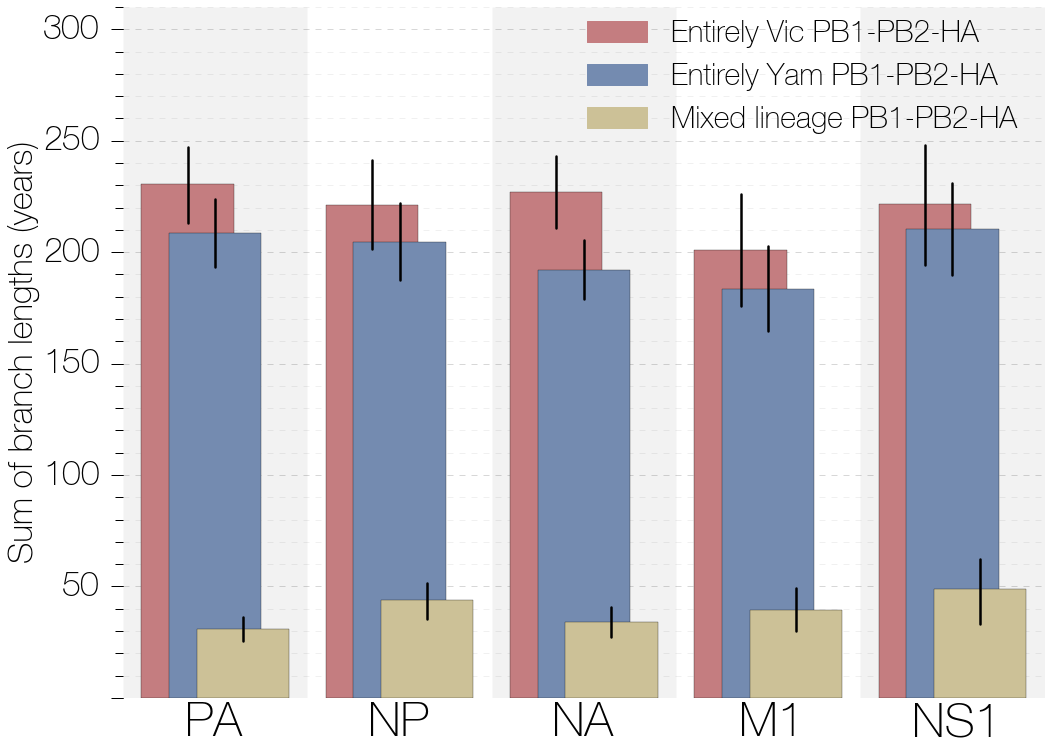
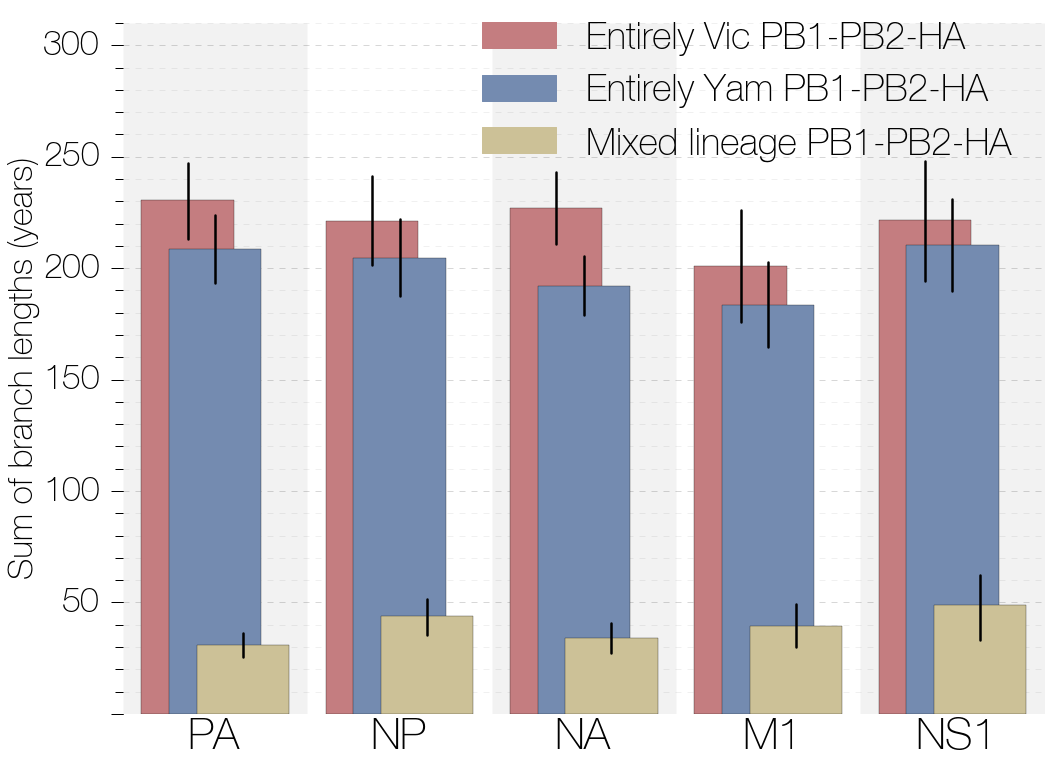
Hopefully final draft for MBE submission.
Some minor text changes, correcting font sizes in one of the figures.

diff --git a/fluB.tex b/fluB.tex
@@ -38,10 +38,10 @@
 \usepackage{amsmath}
 
 % Remove brackets from numbering in list of References
-\renewcommand\refname{\large References}
-\makeatletter
-\renewcommand{\@biblabel}[1]{\quad#1.}
-\makeatother
+%\renewcommand\refname{\large References}
+%\makeatletter
+%\renewcommand{\@biblabel}[1]{\quad#1.}
+%\makeatother
 
 \usepackage{authblk}
 \renewcommand\Authands{ \& }
@@ -97,12 +97,12 @@ Given sufficient time and continued recruitment to the reassortment-isolated PB1
 
 \section*{Introduction}
 Seasonal influenza causes between 250,000 and 500,000 deaths annually and comprises lineages from three virus types (A, B and C) co-circulating in humans, of which influenza A is considered to cause the majority of seasonal morbidity and mortality \citep{flufactsheet}.
-However, influenza B viruses are increasingly being recognized as important human pathogens \citep{paul-glezen2013}.
-Following the 2009 A/H1N1 pandemic, influenza B has increased in prevalence and in the 2012/2013 European season as many as 53\% of influenza sentinel surveillance samples tested positive for influenza B \citep{ECDC1213}. 
+However, influenza B viruses are increasingly being recognized as important human pathogens \citep{paul-glezen2013} and occasionally come to predominate an influenza season.
+For example in the 2012/2013 European season as many as 53\% of influenza sentinel surveillance samples tested positive for influenza B \citep{ECDC1213}. 
 
 Like other members of \textit{Orthomyxoviridae}, influenza B viruses have segmented genomes, which allow viruses co-infecting the same cell to exchange segments, a process known as reassortment. 
 Influenza A viruses are widely considered to be a major threat to human health worldwide due to their ability to cause pandemics in humans via reassortment of circulating human strains with non-human influenza A strains. 
-Although influenza B viruses have been observed to infect seals \citep{osterhaus2000,bodewes2013} through a reverse zoonosis, they are thought to primarily infect humans and are thus are unlikely to exhibit pandemics due to the absence of an animal reservoir from which to acquire antigenic novelty. 
+Although influenza B viruses have been observed to infect seals \citep{osterhaus2000,bodewes2013} through a reverse zoonosis, they are thought to primarily infect humans and are thus unlikely to exhibit pandemics due to the absence of an animal reservoir from which to acquire antigenic novelty. 
 Both influenza A and B evolve antigenically through time in a process known as antigenic drift, in which mutations to the haemagglutinin (HA) protein allow viruses to escape existing human immunity and persist in the human population, leading to recurrent seasonal epidemics \citep{burnet1955,hay2001,bedford2014}.
 
 Currently circulating influenza B viruses comprise two distinct lineages -- Victoria and Yamagata (referred to as Vic and Yam, respectively) -- named after strains B/Victoria/2/87 and B/Yamagata/16/88, that are thought to have genetically diverged in HA around 1983 \citep{rota1990}. 
@@ -110,7 +110,7 @@ These two lineages now possess antigenically distinct HA surface glycoproteins \
 Phylogenetic analysis of evolutionary rate, selective pressures and reassortment history of influenza B has shown extensive and often complicated patterns of reassortment between all segments of influenza B viruses both between and within the Vic and Yam lineages \citep{chen2008}.
 
 Here, we extend previous methods to reveal an evolutionarily intriguing pattern of reassortment in influenza B.
-In our approach, membership to either the Victoria or Yamagata lineage in the tree of one segment is used to label the individual viruses in the tree of the other segments.
+In our approach, membership to either the Victoria or Yamagata lineage in the tree of one segment is used to label the individual isolates in the tree of the other segments.
 By modelling the transition between labels on a phylogenetic tree, reassortment events which result in the replacement of one segment's lineage by another show up as label changes along a branch (Figure \ref{methodFig}).
 We use this method to reconstruct major reassortment events and quantify reassortment dynamics over time in influenza B viruses.
 
@@ -163,15 +163,15 @@ Each point is the mean time of most recent common ancestor (TMRCA) of all surviv
 \end{figure}
 
 By measuring mean pairwise diversity between branches in each tree that were assigned either a Vic or Yam label in other segments, we look for reductions in between-lineage diversity, which indicate that an inter-lineage reassortment event has taken place (Figure \ref{betweenDiversity}).
-Because we are taking the mean of pairwise comparisons, this method gives a quantitative measure of reassortment-induced loss of diversity between Victoria and Yamagata lineages in two trees, although care should be taken when interpreting the statistic, as it does not correspond to any real TMRCAs in the tree, but can be interpreted as mean coalescence date between Vic and Yam lineages of PB1, PB2 and HA segments in all other trees.
+This method gives a quantitative measure of reassortment-induced loss of diversity between Victoria and Yamagata lineages in two trees, although care should be taken when interpreting the statistic, as it does not correspond to any real TMRCAs in the tree, but can be interpreted as mean coalescence date between Vic and Yam lineages of PB1, PB2 and HA segments in all other trees.
 We focus only on PB1, PB2 and HA lineage labels, since all other segments have fixed either the Vic or the Yam lineage.
 Losses of diversity (represented by more recent mean pairwise TMRCAs between Vic and Yam labels) in Figure \ref{betweenDiversity} indicate that every segment has reassorted with respect to the Victoria and Yamagata lineages of PB1, PB2 and HA segments.
-However, we also see that PB1, PB2 and HA labels show reciprocal preservation of diversity after 1997.
+However, we also see that the labels for these 3 segments show reciprocal preservation of diversity after 1997.
 This suggests that after 1997 no reassortment events have taken place between Victoria and Yamagata lineages of PB1, PB2 and HA segments and their lineage labels only `meet' at the root.
 We do see reduced diversity between Vic and Yam labels of PB1, PB2 and HA segments in a time period close to the initial split of Vic and Yam lineages (1986--1996).
 These reductions in diversity represent small clades with reassortant PB1-PB2-HA constellations, which go extinct by 1997.
-We also observe that the assignment of Vic or Yam lineages of PB1, PB2 and HA segments to branches of other segment trees is very similar and often identical after 1997.
-This suggests that PB1, PB2 and HA lineage labels are switching between Vic and Yam simultaneously in all trees after 1997.
+We also observe that the assignment of these 3 segment labels to branches of other segment trees is very similar and often identical after 1997.
+This suggests that PB1, PB2 and HA lineage labels switch simultaneously in all trees after 1997.
 
 \begin{figure}[h]
 	\centering		
@@ -183,7 +183,7 @@ All vertical lines indicating uncertainty are 95\% highest posterior densities (
 	\label{betweenDiversity}
 \end{figure}
 
-We show the ratio of Vic and Yam lineages in our sequence data in different influenza seasons in Figure \ref{lineageRatiosOverTime}, which is based on lineage assignment performed earlier.
+We show the ratio of Vic and Yam lineages in our sequence data in different influenza seasons in Figure \ref{lineageRatiosOverTime}, which is based on lineage assignment performed earlier (see Methods).
 It is evident that losses of diversity in the PA, NP, NA, MP and NS segments are related to the repeated fixation of either the Vic or the Yam lineage.
 These losses of diversity correspond to fixation of the Vic lineage in NS and fixation of the Yam lineage in PA, NP, NA and MP.
 Similarly, the lack of reassortment between Vic and Yam lineages and maintenance of diversity of PB1, PB2 and HA can be seen, where the two lineages have been isolated at a ratio close to 50\% over long periods of time (Figure \ref{lineageRatiosOverTime}).
@@ -195,7 +195,7 @@ On a year-to-year basis, however, the ratios for Vic and Yam lineage PB1, PB2 an
 	\caption{\textbf{Ratio of lineages in the dataset.}
 The ratio of sequences that derive from the original Victoria clade (yellow) to sequences that derive from the Yamagata clade (purple) in each segment over time.
 Black lines indicate where this ratio lies in the larger 1600 genomes dataset.
-Numbers at the top of the figure show the total number of genomes analyzed within each influenza season in the main dataset comprised of 452 genomes, while the numbers in brackets correspond to numbers of sequences in the larger 1600 genomes dataset.
+Numbers at the top of the figure show the total number of genomes analyzed within each influenza season in the main dataset comprised of 452 genomes from which the ratio was calculated, while the numbers in brackets correspond to numbers of sequences in the larger 1600 genomes dataset.
 Numbers at the bottom are influenza seasons from the 1987/1988 (87/88) season to the 2011/2012 season.
 Yamagata lineage PA, NP, NA and MP segments and Victoria lineage NS segment eventually become fixed in the influenza B population.
 PB1, PB2 and HA segments maintain separate Victoria and Yamagata lineages.}
@@ -214,11 +214,12 @@ We identify 5 major (in terms of persistence) reassortant genome constellations 
 \end{itemize}
 B/Alaska/12/1996-like, B/Nanchang/2/1997-like and B/Iowa/03/2002-like constellations were observed by \citet{chen2008}, but sequences from \\B/California/NHRC0001/2006-like and B/Brisbane/33/2008-like constellations were not available at the time.
 In their study \citet{chen2008} also recovered the co-assortment pattern of PB1, PB2 and HA lineages, but did not remark upon it.
-Of these 5 constellations 4 (B/Nanchang/2/1997-like, B/Iowa/03/2002-like, B/California/NHRC0001/2006-like and B/Brisbane/33/2008-like) are derived from introgression of Yamagata lineage segments into Victoria lineage PB1-PB2-HA background, with only 1 (B/Alaska/12/1996-like) resulting from introgression of Victoria lineage NS segment into an entirely Yamagata derived background.
+Of these 5 constellations 4 (B/Nanchang/2/1997-like, B/Iowa/03/2002-like,\\ B/California/NHRC0001/2006-like and B/Brisbane/33/2008-like) are derived from introgression of Yamagata lineage segments into Victoria lineage PB1-PB2-HA background, with only 1 (B/Alaska/12/1996-like) resulting from introgression of Victoria lineage NS segment into an entirely Yamagata derived background.
 All 5 inter-lineage reassortment events described here are marked by the preservation of either entirely Victoria or Yamagata derived PB1-PB2-HA segments.
 Figure \ref{railroadPlot} also shows that reassorting segments appear to evolve with a considerable degree of autonomy.
 For example, the NP lineage that entered a largely Victoria lineage derived genome and gave rise to the B/Nanchang/2/1997-like isolates continued circulating until 2010, even though other segments it reassorted with in 1995 -- 1996 (PA and MP) went extinct following the reassortments that led to the rise of viruses with B/Iowa/03/2002-like genome constellations.
 A more extreme example is the NS segment, which in B/Iowa/03/2002-like isolates (and all subsequent Vic PB1-PB2-HA isolates) has originally been derived from the Victoria lineage that had been associated with mostly Yam lineage derived B/Alaska/12/1996-like genomes for a number of years.
+
 We observe that in 5 successful inter-lineage reassortment events, none break up the PB1-PB2-HA complex.
 This is an unlikely outcome -- the probability of not breaking up PB1-PB2-HA across 5 reassortment events is $p = (\frac{2^{5} \times 2 - 2}{2^{8} - 2})^{5} = 0.0009$, where reassortment events are considered to sample from the Vic and Yam lineages at random for each of the 8 segments.
 If we correct for multiple testing with the assumption that co-assortment of any 3 segments is of interest we find that the probability of not breaking up an arbitrary 3 segments across 5 reassortment events is $p = \binom{8}{3} \times (\frac{2^{5} \times 2 - 2}{2^{8} - 2})^{5} = 0.0485$.
@@ -234,7 +235,7 @@ Lineage extinction dates are not shown accurately.}
 	\label{railroadPlot}
 \end{figure}
 
-The vast majority of influenza B isolates possess either Vic or Yam lineage derived PB1-PB2-HA complexes, although on rare occasions mixed-lineage PB1-PB2-HA constellations emerge.
+Although the vast majority of influenza B isolates possess either Vic or Yam lineage derived PB1-PB2-HA complexes, on rare occasions mixed-lineage PB1-PB2-HA constellations emerge.
 Figure \ref{stateTime} shows the sum of branch lengths which were labelled as having entirely Vic, entirely Yam or mixed-lineage PB1, PB2 and HA segments.
 Due to lack of reassortment between Vic and Yam lineages of PB1, PB2 and HA (Figure \ref{betweenDiversity}) since 1997 all segments have spent significantly longer periods of evolutionary time with either entirely Vic-derived or entirely Yam-derived than with mixed-lineage PB1, PB2 and HA constellations (Figure \ref{stateTime}).
 We have identified 3 instances of mixed-lineage PB1-PB2-HA reassortants from the data with the following PB1-PB2-HA constellations: VVY (B/Bangkok/163/1990-like, 13 sequences isolated 1990 -- 5 Jan 1995), VYV (B/Nanchang/630/1994-like, 2 sequences isolated 1994 -- 1996) and VYY (B/New York/24/1993-like, 2 sequences isolated 8 Jan 1993 -- 1994).
@@ -245,7 +246,7 @@ We detected two new reassortant lineages when investigating the larger (1600 gen
 	\includegraphics[width=0.65\textwidth]{figures/InfB_stateTimeAlt.png}
 	\caption{\textbf{Amount of evolutionary time each segment has spent under different PB1-PB2-HA constellations.}
 All segments have spent significantly more of their history with entirely Vic or entirely Yam-derived PB1-PB2-HA complexes.
-All horizontal lines indicating uncertainty are 95\% highest posterior densities (HPDs).}
+All vertical lines indicating uncertainty are 95\% highest posterior densities (HPDs).}
 	\label{stateTime}
 \end{figure}
 
@@ -253,12 +254,12 @@ All horizontal lines indicating uncertainty are 95\% highest posterior densities
 We attempted to quantify the temporal discordance between lineages reassorting into new genomic constellations.
 If one were able to recover an influenza `species tree', including admixture/reassortment events, it would be possible to estimate the reassortment or recombination `distance', which is the time between a split in the species tree in the past and a reassortment event (see Figure \ref{speciesTree}).
 Although we do not find evidence of differences in numbers of overall reassortments between segments (see Supplementary information), we find support for a reassortment `distance' effect, in which a pair of tips on one segment has a different TMRCA from the same pair of tips on a different segment.
-$\dtmrca$ is most sensitive when only one of the two trees being compared loses diversity via reassortment and the other acts like a proxy for the `species tree'.
+This difference in TMRCAs, or $\dtmrca$, is most sensitive when only one of the two trees being compared loses diversity via reassortment and the other acts like a proxy for the `species tree'.
 We normalize our $\dtmrca$ comparisons to account for alignment length induced uncertainty in tree topology stability over the course of the MCMC chain (see Methods).
 Figure \ref{deltaTMRCA} shows normalized mean $\dtmrca$ values for all pairs of trees.
 Most segment pairs show very low values for this statistic with $\dtmrca\approx$0.1, indicating that $\dtmrca$ measurements between independent analyses of the same segment are up to 10 times smaller than $\dtmrca$ values between analyses of different segments.
 PB1, PB2 and HA trees, on the other hand, exhibit normalized $\dtmrca$ values that are much higher.
-This shows that TMRCA differences between trees of PB1, PB2 and HA segments which, though noisy, are occasionally very similar to uncertainty in tip-to-tip TMRCAs between replicate analyses of these segments.
+This shows that TMRCA differences between trees of PB1, PB2 and HA segments are, though noisy, occasionally very similar to uncertainty in tip-to-tip TMRCAs between replicate analyses of these segments.
 For example, the distribution of comparison between PB1 and PB2 trees has a mean $\dtmrca$$\approx0.4$, indicating that the sum of $\dtmrca$ values from PB1-PB1' and PB2-PB2' comparisons (prime (') indicates an independent MCMC chain) are 40\% of twice the $\dtmrca$ value from the PB1-PB2 comparison, but this value can range anywhere between $\approx$0.15 and $\approx$0.75.
 
 \begin{figure}[h]
@@ -272,13 +273,12 @@ All vertical lines indicating uncertainty are 95\% highest posterior densities (
 
 Linkage disequilibrium (LD) is a measure of non-random association between pairs of alleles at different polymorphic loci within a population.
 To estimate LD no other information, except for haplotype and allele frequencies at polymorphic amino acid sites, is required.
-Although not an external validation of previous phylogenetic results, we observe significantly greater LD values between PB1, PB2 and HA than between other pairs of segments (Figure \ref{segmentLD}).
+Although not an external validation of previous phylogenetic results, we observe greater LD values between PB1, PB2 and HA than between other pairs of segments (Figure \ref{segmentLD}) in a large (approximately 1600 genomes) dataset.
 This suggests that PB1, PB2 and HA segments possess a considerable number of co-assorting alleles, which upon closer inspection are associated with either Vic or Yam lineage segments.
 We conclude that Victoria and Yamagata lineages of PB1, PB2 and HA have accumulated lineage-specific amino acid substitutions.
 Of the amino acid sites that exhibit high LD on PB1, PB2 and HA proteins, there are 4 sites on PB1, 4 on PB2 and 4 on HA proteins which form a network of sites exhibiting high LD (Figures \ref{ChiGenome} and \ref{ChiCore}).
-Figure \ref{ChiGenome} also shows that the number of variable amino acid sites in PB1 and PB2 proteins is comparable to most other proteins investigated (see Methods for cut-offs used to exclude sites from LD analysis).
 These sites define the split between Vic and Yam lineages within PB1, PB2 and HA segments.
-In addition, there are sites on PB1, PB2 and HA proteins which also show high, albeit smaller, LD which correspond to sites which have undergone amino acid replacements some time after the Vic/Yam split.
+In addition, there are sites on PB1, PB2, HA and NA proteins which also show high, albeit smaller, LD which correspond to sites which have undergone amino acid replacements some time after the Vic/Yam split.
 
 \begin{figure}[h]
 	\centering	
@@ -296,14 +296,14 @@ This is evidence of a considerable number of co-assorting alleles within these p
 In this paper we show that the PB1, PB2 and HA segments of influenza B viruses are the only ones that have continuously maintained separate Vic and Yam lineages, while other segments have fixed either Vic or Yam lineages (Figures \ref{genomeGrid}, \ref{lineageRatiosOverTime} and \ref{railroadPlot}).
 Evidence suggests that this is a result of prolonged lack of reassortment between Vic and Yam lineages in PB1, PB2 and HA (Figure \ref{betweenDiversity}) which possess co-assorting sequences detectable as high linkage disequilibrium (Figure \ref{segmentLD}).
 The vast majority of the sampled evolutionary history of each segment of influenza B viruses since the split of Vic and Yam lineages has been spent in association with either completely Victoria or completely Yamagata lineage derived PB1-PB2-HA complexes (Figure \ref{stateTime}), suggesting that having `pure' lineage PB1-PB2-HA complexes is important for whole-genome fitness.
-We propose that this pattern of coassortment is due to the action of selection and not simply biased reassortment.
+We propose that this pattern of coassortment is due to the action of selection and not simply biased or rare reassortment.
 
 When comparing the mean tip-tip TMRCA deviations we find evidence of isolation by temporal distance - when reassortments occur between PB1, PB2 and HA segments those events tend to involve branches that have similar TMRCAs.
 Other segment pairs, with the exception of MP-NA, seem to show little signal of this and are able to reassort with branches that have been evolving under temporally distant genomic backgrounds.
 In addition, most strains with mixed-lineage PB1-PB2-HA complexes occurred in the early years of the Vic--Yam split, when the two lineages were presumably much more similar at the nucleotide and amino acid levels.
 The most recent influenza B viruses with mixed-lineage PB1-PB2-HA complexes are B/Waikato/6/2005-like and B/Malaysia/1829782/2007-like viruses which circulated for only 5 months or are known from a single isolate, respectively.
 
-We should clarify that when we say that Vic and Yam PB1-PB2-HA complexes of the influenza B virus are co-adapted and have co-evolved we mean that these 3 segments do not appear to function well when derived from both lineages and that the evolution to this state has been intimate, in the sense that the two lineages have not reassorted across great temporal distances, unlike the rest of the genome.
+We should clarify that when we say that Vic and Yam PB1-PB2-HA complexes of the influenza B virus are co-adapted and have co-evolved we mean that these 3 segments do not appear to function well when derived from both lineages and that the evolution to this state has been intimate, in the sense that there has not been a successful reassortant combining these two lineages across great temporal distances, unlike the rest of the genome.
 
 
 \subsection*{Causes of co-dependence between PB1-PB2-HA}
@@ -312,26 +312,26 @@ Though it would be easy to explain co-adaptation between these segments by refer
 
 It is perhaps easiest to explain co-dependence between PB1 and PB2 segments based on their functions as part of the influenza RNA-dependent RNA polymerase (RdRp) heterotrimer.
 Indeed, trees of PB1 and PB2 segments exhibit high similarity in tip--tip TMRCAs (Figure \ref{deltaTMRCA}), suggesting highly similar TMRCAs.
-In addition, PB1--PB2 reassortants are the rarest and least persistent among mixed-lineage PB1-PB2-HA strains and have not been isolated since 1996.
+In addition, PB1--PB2 reassortants are the rarest and least persistent among mixed-lineage PB1-PB2-HA strains and have not been isolated in great numbers.
 
 Explaining the co-dependence of PB1+2 and HA segments is more difficult.
 Many studies have noted a possible link between the HA, NA and PB1 segments of influenza A viruses \citep{bergeron2010,fulvini2011}.
-A previously used technique for producing vaccine seed strains involved selecting for HA-NA reassortants, which often resulted in PB1-HA-NA reassortants, the second most frequent class of reassortants \citep{bergeron2010,fulvini2011}.
+A previously used technique for producing vaccine seed strains involved selecting for HA-NA reassortants, which often yielded PB1-HA-NA reassortants as a side-effect \citep{bergeron2010,fulvini2011}.
 Recent experiments have suggested that the presence or absence of a `foreign' PB1 segment can have dramatic effects on HA concentration on the surface of virions and total virion production \citep{cobbin2013}.
 Additional evidence for a relationship between PB1 and HA segments in influenza A viruses is given by previous influenza pandemics, which were caused by avian-human influenza A virus reassortants.
 It has been established that at least for the 1957 and the 1968 influenza pandemics, caused by A/H2N2 and A/H3N2 subtypes, respectively, the viruses responsible were reassortants possessing PB1 and HA segments derived from avian influenza A viruses \citep{kawaoka1989}.
 However, there have also been reassortant influenza A viruses circulating for prolonged periods of time in humans that did have disparate PB1 and HA segments, \textit{e.g.} H1N2 outbreaks in 2001 \citep{gregory2002} and H1N1/09 in 2009 \citep{smith2009}.
 
 Another possibility is the action of balancing selection in preserving the diversity in one segment, whilst the other segments hitchhike along.
-A good candidate for this would be HA, as it is now the sole bearer of substantial antigenic diversity within the influenza B population, as the Vic lineage NA segment went extinct in 2002 (Figures \ref{genomeGrid}, \ref{tmrcaOT}, \ref{lineageRatiosOverTime} and \ref{railroadPlot})).
-We find this scenario unlikely: if PB1+2 segments were hitchhiking with the HA segment stochastically we would expect to see more PB1+2 versus HA reassortants and fixation of Vic or Yam lineage PB1+2 segments in the influenza B population.
-Our main dataset comprising 452 complete influenza B virus genomes has one instance of these kinds of reassortants characterised by B/Bangkok/163/1990-like genome constellations.
-The larger dataset with 1600 complete genomes has two additional examples of this: isolates with B/Waikato/6/2005-like and B/Malaysia/1829782/2007-like PB1-PB2-HA constellations.
-We note that in all cases the genome constellations of these reassortants were not fixed in the influenza B population and the more recent B/Waikato/6/2005-like reassortants persisted for a much shorter period of time (5 months versus 4 years), suggestive of declining PB1+2/HA reassortant fitness over time.
-
+A good candidate for this would be HA, as it is now the sole bearer of substantial antigenic diversity within the influenza B population, as the Vic lineage NA segment went extinct in 2002 (Figures \ref{genomeGrid}, \ref{tmrcaOT}, \ref{lineageRatiosOverTime} and \ref{railroadPlot}).
 Previous research has found that avian influenza A virus HA and NA segments, which are the primary vehicles of antigenicity, exhibit vast diversity when compared to `internal segments' (including PB1 and PB2 segments), which show much more recent TMRCAs and less variability at the amino acid level \citep{chen2006,obenauer2006}.
 This is easiest to interpret as frequency-dependent balancing selection acting to preserve antigenic diversity \citep{worobey2014}.
 If this is the case in influenza B viruses, we expect balancing selection to act on HA and indirectly, through some unknown association with HA, on PB1 and PB2 segments.
+
+We find this hitchhiking scenario unlikely: if PB1+2 segments were hitchhiking with the HA segment stochastically we would expect to see more PB1+2 versus HA reassortants and fixation of Vic or Yam lineage PB1+2 segments in the influenza B population.
+Our main dataset comprising 452 complete influenza B virus genomes has one instance of these kinds of reassortants characterised by B/Bangkok/163/1990-like genome constellations.
+The larger dataset with 1600 complete genomes has one additional example of this: isolates with a B/Waikato/6/2005-like PB1-PB2-HA constellation.
+We note that in all cases the genome constellations of these reassortants were not fixed in the influenza B population and the more recent B/Waikato/6/2005-like reassortants persisted for a much shorter period of time (5 months versus 4 years), suggestive of declining PB1+2/HA reassortant fitness over time.
 
 It is possible that Vic and Yam lineages of PB1, PB2 and HA segments have simply drifted away from each other, without any one segment being the driver of diversity preservation in PB1, PB2 and HA segments.
 In this case PB1, PB2 and HA segments of Vic and Yam lineage accumulate substitutions that improve their ability to co-operate with segments of the same lineage and worse at interacting segments of a different lineage.
@@ -392,12 +392,12 @@ In addition, by treating the relative position of each isolate within a phylogen
 In this paper we apply a novel combination of population genetics and phylogenetic methods to full genome sequences in order to describe and quantify reassortment patterns in influenza B viruses circulating in humans from 1980 to the present day.
 Our main finding is that in influenza B viruses only PB1, PB2 and HA segments maintain both Victoria and Yamagata lineages which associate with segments of their own lineage, yielding two co-circulating PB1-PB2-HA complexes: one entirely derived from Victoria and one from Yamagata lineage segments.
 We argue that this is due to selection against viruses with mixed-lineage PB1-PB2-HA complexes.
-Given sufficient time it should become clear whether PB1-PB2-HA complexes of human influenza B viruses are continuing to resist gene flow whilst the rest of the influenza B virus genome is repeatedly homogenized or whether the two PB1-PB2-HA complexes are recruiting the rest of the genomic segments into co-adapted and co-reassorting segment complexes on their way to sympatric speciation.
+Given sufficient time it should become clear whether PB1-PB2-HA complexes of human influenza B viruses are simply resisting gene flow whilst the rest of the influenza B virus genome is repeatedly homogenized or whether the two PB1-PB2-HA complexes are recruiting the rest of the genomic segments into co-adapted and co-reassorting segment complexes on their way to sympatric speciation.
 
 \newpage
 
 \section*{Methods}
-We compiled a dataset of 452 complete influenza B genomes from GISAID \citep{GISAID} dating from 1984 to 2012 (accession numbers and laboratory acknowledgements can be found in supplementary information).
+We compiled a dataset of 452 complete influenza B genomes from GISAID \citep{GISAID} dating from 1984 to 2012 (accession numbers and laboratory acknowledgements can be found in Supplementary information).
 The longest protein coding region of each segment was extracted and used for all further analyses.
 We thus assume that homologous recombination has not taken place and that the evolutionary history of the whole segment can be inferred from the longest coding sequence in the segment.
 To date there has been little evidence of homologous recombination in influenza viruses \citep{chare2003,boni2008,han2010}.
@@ -405,12 +405,12 @@ The segments of each strain were assigned to either Vic or Yam lineage by making
 Each strain was thus assigned 8 lineages depending on the combination of lineages from which their genomes were derived, for example all segments except for NS in strain B/Victoria/2/87 belong to Vic lineage and can thus be represented as (V,V,V,V,V,V,V,Y).
 
 We also collated all complete influenza B virus genomes available on Genbank as of May 5, 2014.
-After removing isolates that had considerable portions of any sequence missing, were isolated prior to 1980 or were suspected of having a contaminant sequence in any segment, we were left with (probably about 1603 sequences) sequences.
+After removing isolates that had considerable portions of any sequence missing, were isolated prior to 1980 or were suspected of having a contaminant sequence in any segment, we were left with 1603 sequences.
 This dataset only became available after all primary analyses were performed, are mainly from Australia, New Zealand and the United States and are too numerous to analyze in BEAST \citep{drummond2012}.
 PhyML \citep{guindon2003} was used to produce phylogenies of each segment and the lineage of each isolate was determined based on grouping with either B/Victoria/2/87 or B/Yamagata/16/88 sequences, as described above.
 By associating strains with lineage identity of each of their segments, we reconstructed the most parsimonious inter-lineage reassortment history.
 
-Temporally-calibrated phylogenies were recovered for each segment using the Markov chain Monte Carlo (MCMC) methods in the BEAST software package \citep{drummond2012}.
+Temporally-calibrated phylogenies were recovered for each segment using Markov chain Monte Carlo (MCMC) methods in the BEAST software package \citep{drummond2012}.
 Here, we modeled the substitution process using the HKY model of nucleotide substitution \citep{hky1985}, with separate transition models for each of the 3 codon partitions, and additionally estimate realized synonymous and non-synonymous substitution counts \citep{obrien2009}.
 We used a flexible Bayesian skyride demographic model \citep{minin2008}.
 We accounted for incomplete sampling dates for 94 sequences (of which 93 had only year and 1 had only year and month of isolation) whereby tip date is estimated as a latent variable in the MCMC integration.
@@ -418,7 +418,7 @@ A relaxed molecular clock was used, where branch lengths are drawn from a lognor
 We ran 3 independent MCMC chains, each with 200 million states, sampled every 20,000 steps and discarded the first 10\% of the MCMC states as burn-in.
 After assessing convergence of all 3 MCMC chains by visual inspection using Tracer \citep{tracer}, we combined samples across chains to give a total of 27,000 samples from the posterior distribution of trees.
 
-Every sequence was assigned 7 discrete traits in BEAUti corresponding to the lineages of all other segments with which a strain was isolated \textit{e.g.} PB1 tree had PB2, PA, HA, NP, NA, MP and NS as traits and V or Y as trait values.
+Every sequence was assigned 7 discrete traits in BEAUti corresponding to the lineages of all other segments with which a strain was isolated \textit{e.g.} PB1 tree had PB2, PA, HA, NP, NA, MP and NS as traits and V or Y as values for each trait.
 We inferred the ancestral state of lineages in each segment by modelling transitions between these discrete states using an asymmetric transition matrix \citep{lemey2009} with Bayesian stochastic search variable selection (BSSVS) to estimate significant rates.
 Because the posterior set of trees for a single segment has branches labelled with the inferred lineage in the remaining 7 segments, we can detect inter-lineage reassortments between pairs of segments by observing state transitions, i.e.\ Yam to Vic or Vic to Yam (Figure \ref{methodFig}).
 In addition, by reconstructing the ancestral state of all other genomic segments jointly we can infer co-reassortment events when more than one trait transition occurs on the same node in a tree.
@@ -426,12 +426,12 @@ In addition, by reconstructing the ancestral state of all other genomic segments
 \subsection*{Measures of diversity}
 We inferred the diversity of each segment at a single point in time by estimating the date of the most recent common ancestor of all branches at yearly intervals, which places an upper bound on the maximum amount of diversity existing at each time point.
 A version of this lineage turnover metric has previously been used to investigate the tempo and strength of selection in influenza A viruses during seasonal circulation \citep{bedford2011}.
-In addition, we calculated mean pairwise time of most recent common ancestor (TMRCA) between branches labelled as Vic and Yam for PB1, PB2 and HA.
+In addition, we calculated mean pairwise time of most recent common ancestor (TMRCA) between branches labelled as Vic and Yam for PB1, PB2 and HA traits.
 This gave us a measure of how much a particular segment reassorts with respect to Vic and Yam lineages of PB1, PB2 and HA segments.
 If Vic and Yam lineages of PB1, PB2 and HA segments were to be considered as being separate populations this measure would be equivalent to `between population' diversity.
 
 We also calculated the total amount of evolutionary time spent by each segment with entirely Vic, entirely Yam or mixed lineage PB1, PB2 and HA segments.
-We do this by summing the branch lengths in each tree under 3 (2 in the case of PB1, PB2 and HA trees) different lineage combinations of the PB1, PB2 and HA segments: PB1-PB2-HA derived entirely from Yamagata lineage, PB1-PB2-HA entirely derived from Victoria lineage and PB1-PB2-HA derived from a mixture of the two lineages.
+We do this by summing the branch lengths in each tree under 3 different lineage combinations of the PB1, PB2 and HA segments: PB1-PB2-HA derived entirely from Yamagata lineage, PB1-PB2-HA entirely derived from Victoria lineage and PB1-PB2-HA derived from a mixture of the two lineages.
 This gives a measure of how successful, over long periods of time, each particular PB1-PB2-HA constellation has been.
 
 \subsection*{Tree to tree similarities}
@@ -476,8 +476,7 @@ where $\chi^{2}$ is calculated from a classical contingency table, $N$ is the nu
 This statistic is equal to the widely used $r^2$ LD statistic at biallelic loci, but also quantifies LD when there are more than two alleles per locus \citep{zhao2005}.
 LD was estimated only at loci where each nucleotide or amino acid allele was present in at least two isolates.
 We ignored gaps in the alignment and did not consider them as polymorphisms.
-We also calculated mean LD for all pairs of segments to quantify the overall association between them.
-
+In all cases we used a minor allele frequency cutoff of 1\%.
 We also calculated another LD statistic, D' \citep{lewontin1964}:
 
 \begin{equation}
@@ -516,9 +515,6 @@ TB was supported by a Newton International Fellowship from the Royal Society.
 The research leading to these results has received funding from the European Research Council under the European Community's Seventh Framework Programme (FP7/2007-2013) under Grant Agreement no. 278433-PREDEMICS and ERC Grant agreement no. 260864.
 AR and SL acknowledge the support of the Wellcome Trust (grant no. 092807).
 
-\bibliographystyle{mbe}
-\bibliography{fluB}
-
 \clearpage
 
 %%% TITLE %%%
@@ -548,7 +544,7 @@ AR and SL acknowledge the support of the Wellcome Trust (grant no. 092807).
 Subtree prune and regraft (SPR) distances between phylogenetic trees are an approximate measure of the numbers of reassortment or recombination events \citep{svinti2013}.
 Exact SPR distances are difficult to compute, as they depend on the SPR distance itself and are impractical to compute for posterior distributions of trees except for the most similar trees.
 We calculated approximate SPR distances \citep{whidden2009,whidden2010,whidden2013} to quantify the numbers of reassortments that have taken place between all pairs of segments.
-Approximate SPR distances were normalized using the procedure used to normalize $\dspr$ described in Methods:
+Approximate SPR distances were normalized using the procedure used to normalize $\dspr$ (see Methods):
 \begin{equation}
 \dspr(A_i, B_i) = \frac{f(A_i, A_i') + f(B_i, B_i')}{2 \, f(A_i, B_i)},
 \end{equation}
@@ -665,7 +661,7 @@ Proximity of sites on heatmaps might not correspond to proximity of sites within
 
 \begin{figure}
 \centering  
-\includegraphics[width=0.85\textwidth]  {supp_figures/aaChi_PB1_PB2_HA.png}
+\includegraphics[width=0.85\textwidth]  {supp_figures/InfB_LDheatmap.PB1_PB2_HA.1600.aa.ChiSqdf.minorCutoff1percent.png}
 \caption{\textbf{Heatmap of linkage disequilibrium ($\chiSq$) between amino acid sites on PB1, PB2 and HA proteins.}
 Numbers next to each row and column correspond to amino acid site number within a given protein starting from methionine.
 Amino acid sites exhibiting reciprocally high LD between PB1, PB2 and HA proteins are: 176, 211, 213, 508 (PB1), 115, 399, 470, 642 (PB2) and 96, 163, 520 and 570 (HA).
@@ -857,5 +853,8 @@ Mean $\dtmrca$ values between independent analyses of each segment show that mea
 %\caption{\textbf{Total counts and ratios of Victoria and Yamagata lineage sequences in each segment.}}
 %\label{lineageRatios}
 %\end{figure}
+
+\bibliographystyle{mbe}
+\bibliography{fluB}
 
 \end{document}
